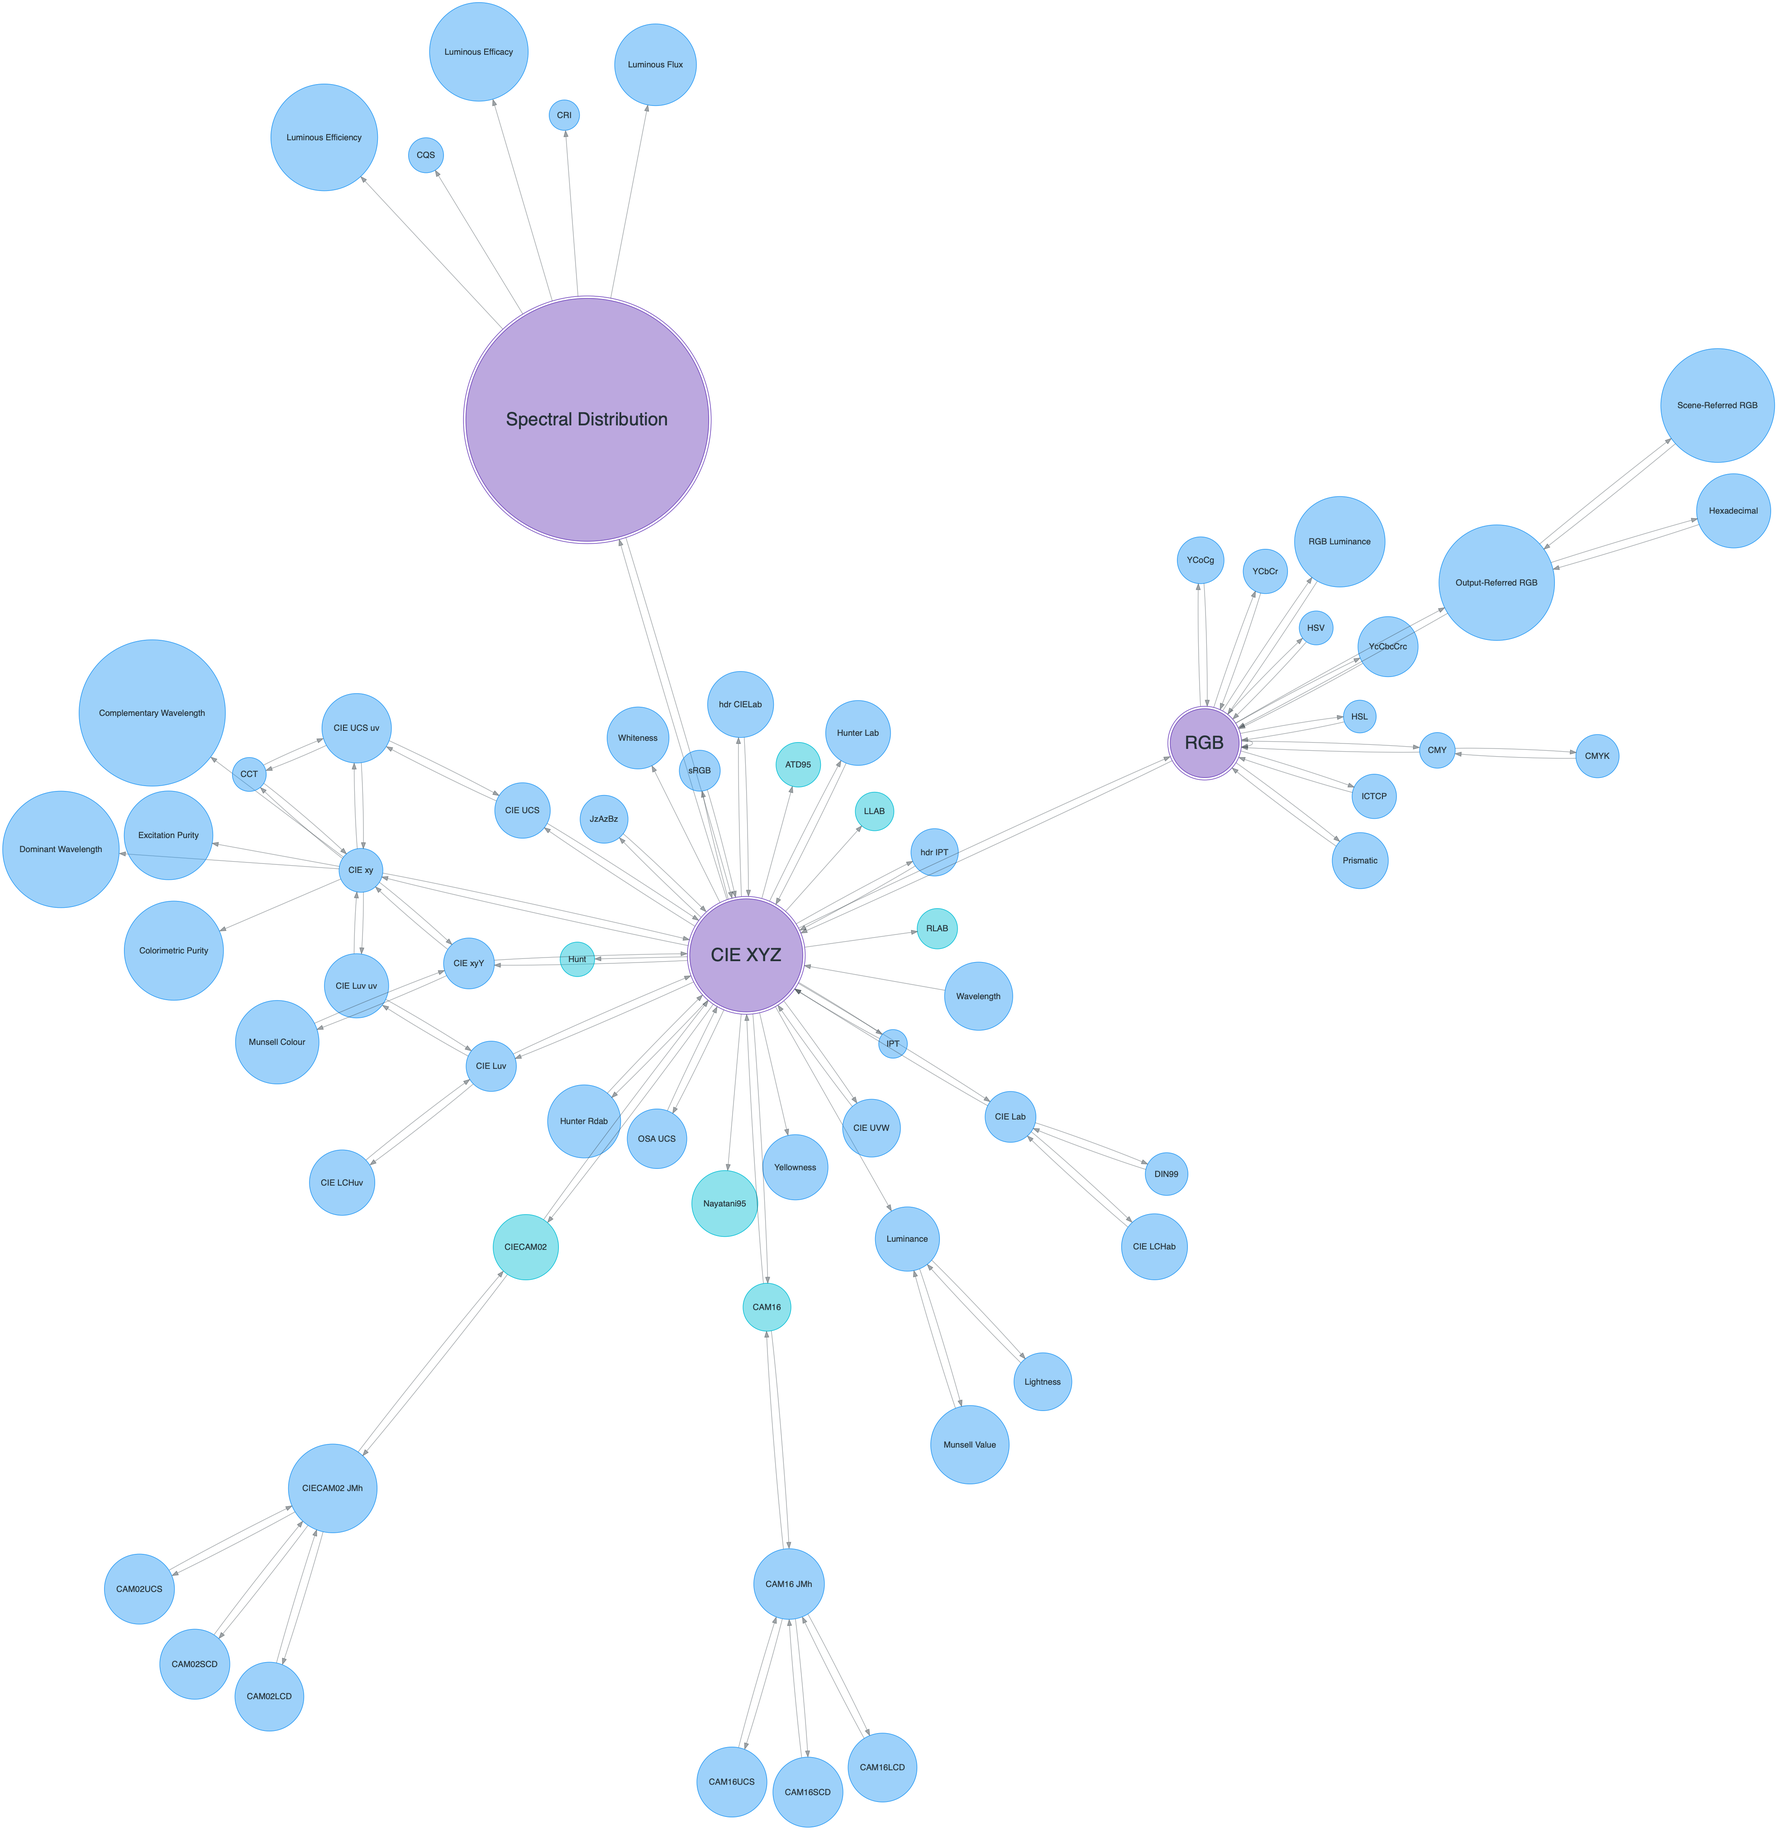
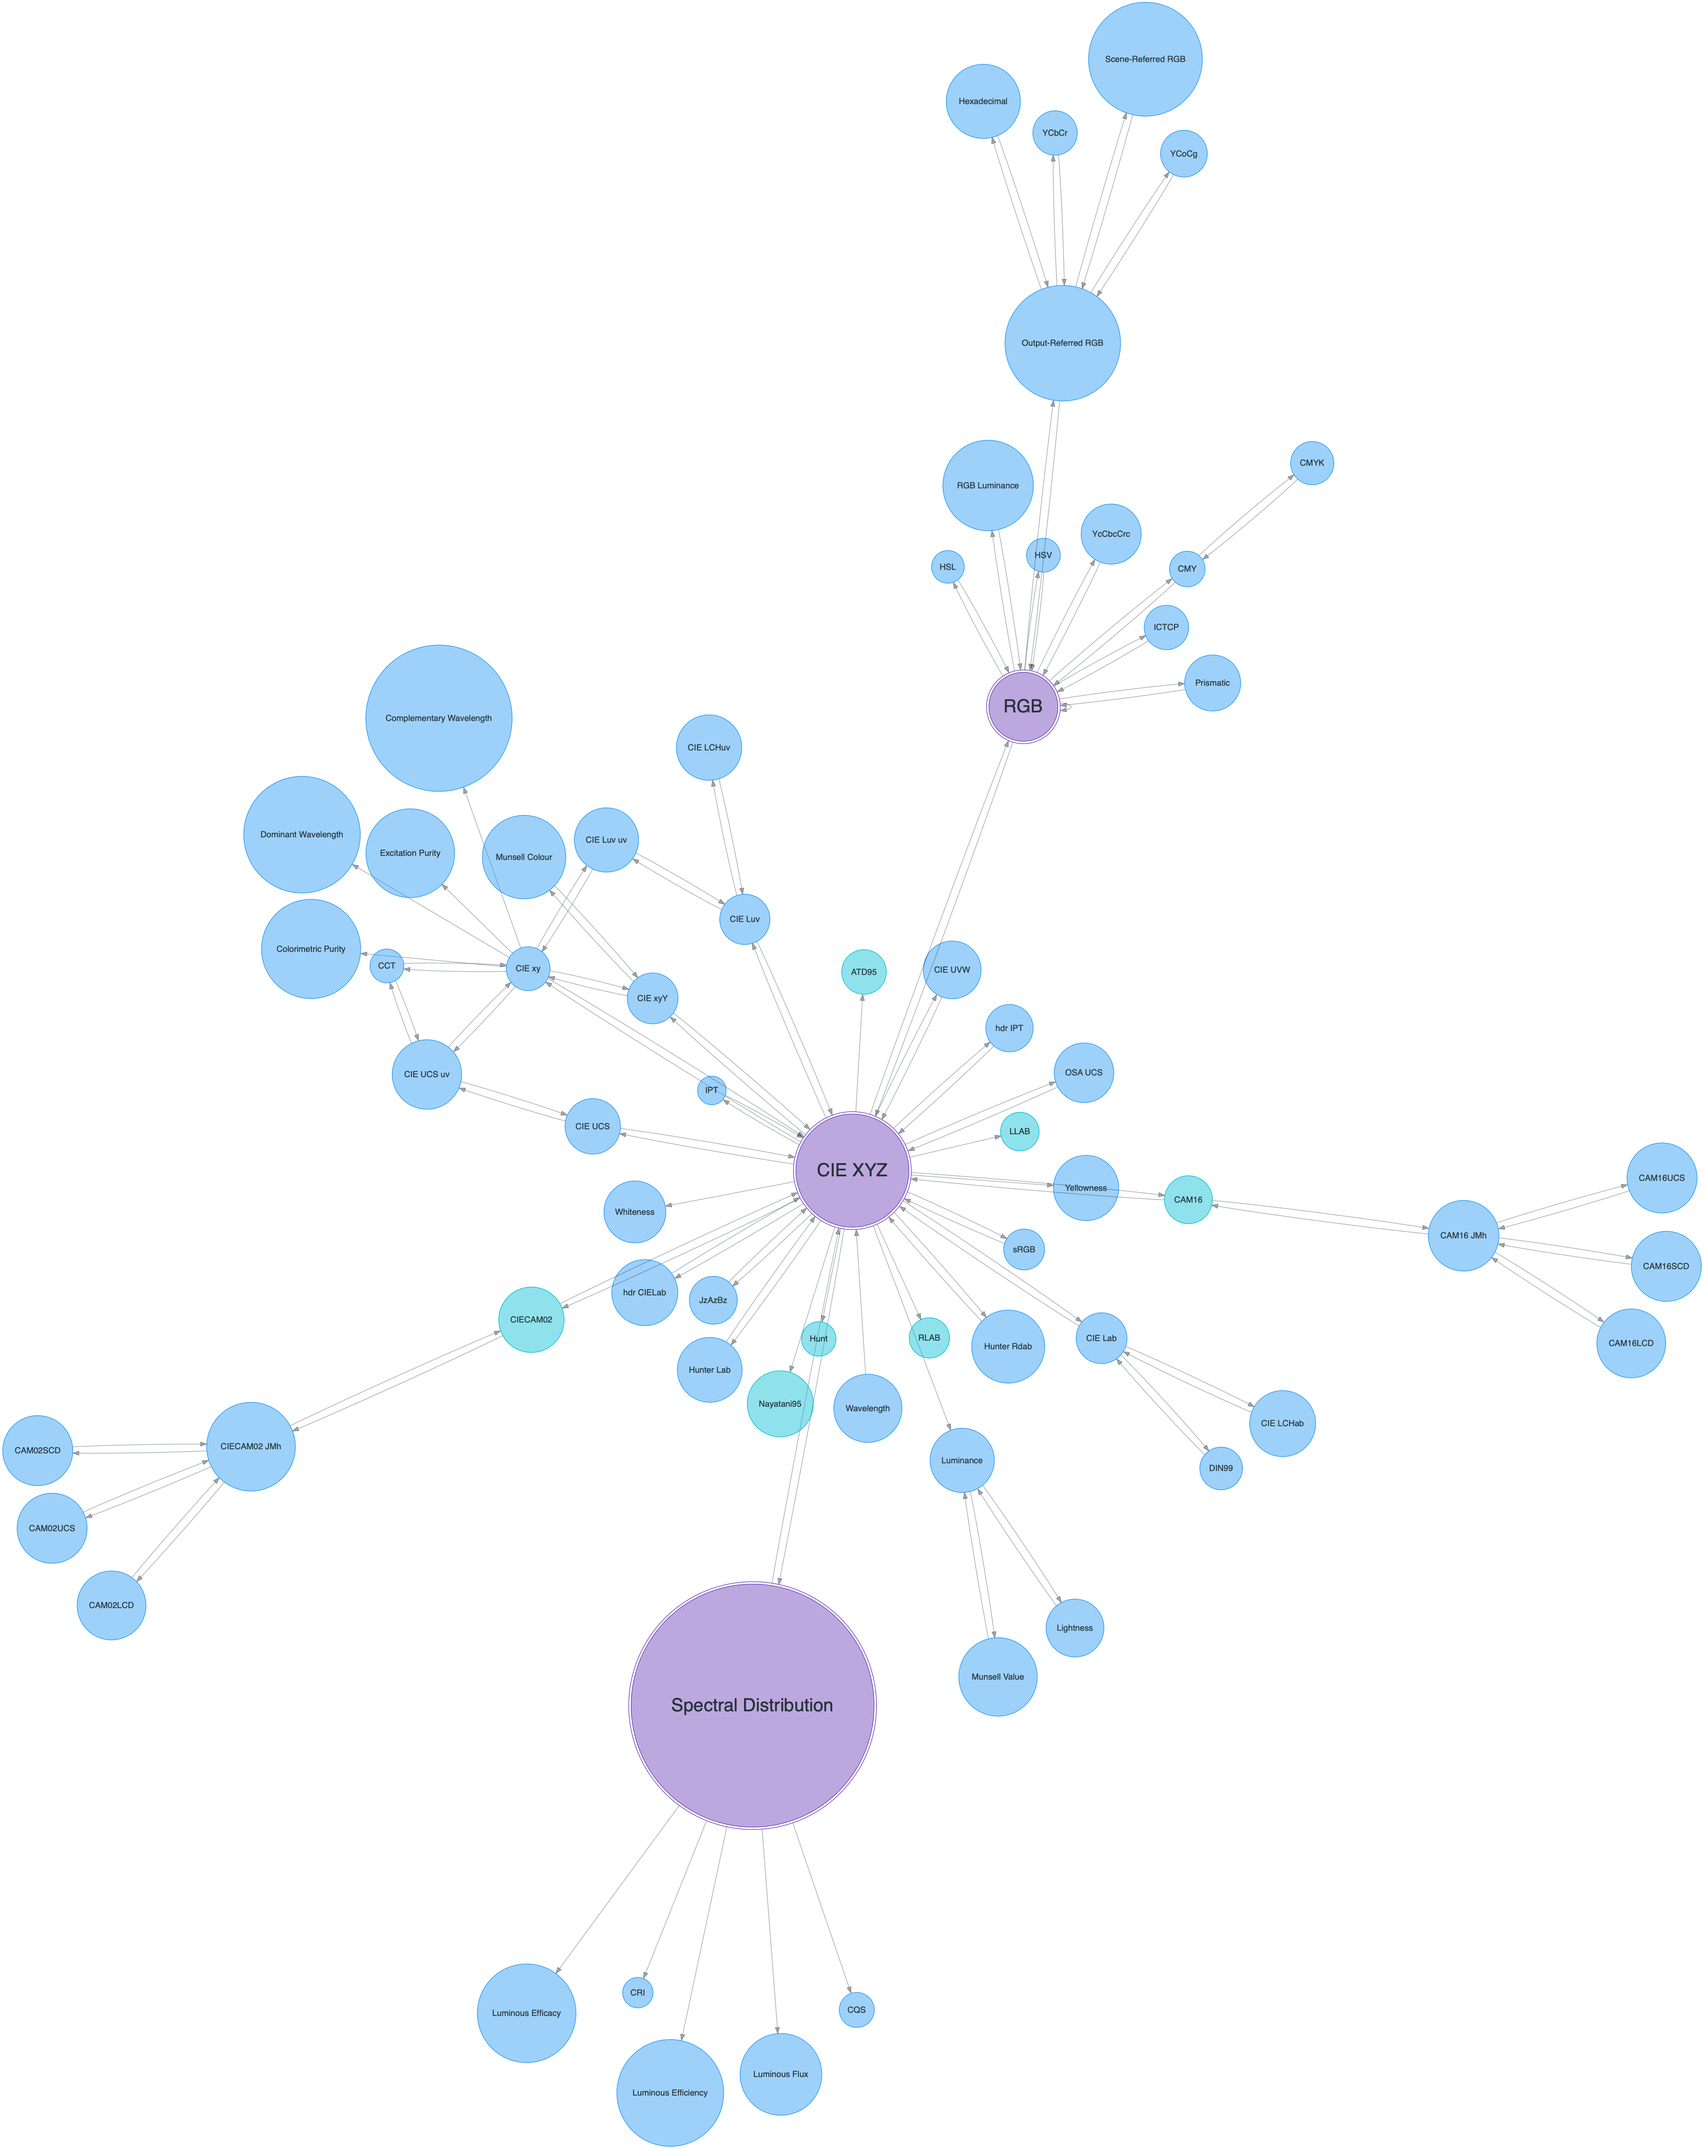
Add various unit tests for "colour.convert" definition.

diff --git a/colour/graph/tests/test_conversion.py b/colour/graph/tests/test_conversion.py
@@ -68,11 +68,29 @@ class TestConvert(unittest.TestCase):
             Jpapbp, np.array([0.39994810, 0.09206557, 0.08127526]), decimal=7)
 
         RGB_b = convert(
-            Jpapbp, 'CAM16UCS', 'sRGB', verbose={'mode': 'extended'})
+            Jpapbp, 'CAM16UCS', 'sRGB', verbose={'mode': 'Extended'})
         # NOTE: The "CIE XYZ" tristimulus values to "sRGB" matrix is given
         # rounded at 4 decimals as per "IEC 61966-2-1:1999" and thus preventing
         # exact roundtrip.
         np.testing.assert_allclose(RGB_a, RGB_b, rtol=1e-5, atol=1e-5)
+
+        np.testing.assert_almost_equal(
+            convert('#808080', 'Hexadecimal', 'Scene-Referred RGB'),
+            np.array([0.21586050, 0.21586050, 0.21586050]),
+            decimal=7)
+
+        self.assertAlmostEqual(
+            convert('#808080', 'Hexadecimal', 'RGB Luminance'),
+            0.21586050,
+            places=7)
+
+        np.testing.assert_almost_equal(
+            convert(
+                convert(
+                    np.array([0.5, 0.5, 0.5]), 'Output-Referred RGB',
+                    'Scene-Referred RGB'), 'RGB', 'YCbCr'),
+            np.array([0.49215686, 0.50196078, 0.50196078]),
+            decimal=7)
 
 
 if __name__ == '__main__':

diff --git a/colour/graph/conversion.py b/colour/graph/conversion.py
@@ -427,12 +427,12 @@ CONVERSION_SPECIFICATIONS_DATA = [
     ('ICTCP', 'RGB', ICTCP_to_RGB),
     ('RGB', 'Prismatic', RGB_to_Prismatic),
     ('Prismatic', 'RGB', Prismatic_to_RGB),
-    ('RGB', 'YCbCr', RGB_to_YCbCr),
-    ('YCbCr', 'RGB', YCbCr_to_RGB),
+    ('Output-Referred RGB', 'YCbCr', RGB_to_YCbCr),
+    ('YCbCr', 'Output-Referred RGB', YCbCr_to_RGB),
     ('RGB', 'YcCbcCrc', RGB_to_YcCbcCrc),
     ('YcCbcCrc', 'RGB', YcCbcCrc_to_RGB),
-    ('RGB', 'YCoCg', RGB_to_YCoCg),
-    ('YCoCg', 'RGB', YCoCg_to_RGB),
+    ('Output-Referred RGB', 'YCoCg', RGB_to_YCoCg),
+    ('YCoCg', 'Output-Referred RGB', YCoCg_to_RGB),
     ('RGB', 'Output-Referred RGB', encoding_cctf),
     ('Output-Referred RGB', 'RGB', decoding_cctf),
     ('Scene-Referred RGB', 'Output-Referred RGB', encoding_cctf),
